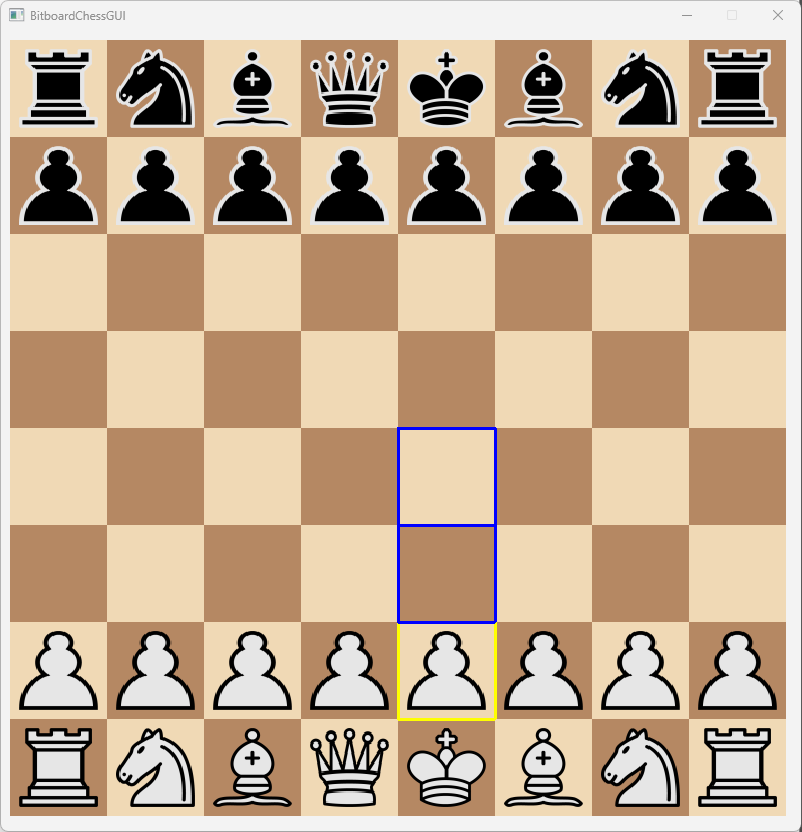
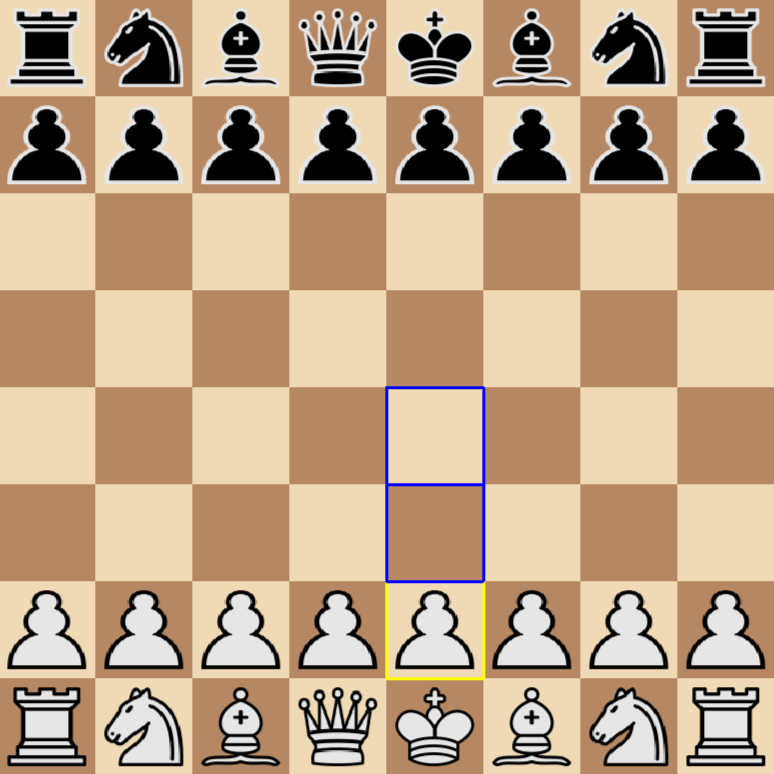
improvements

diff --git a/index.html b/index.html
@@ -7,9 +7,12 @@
     <title>
         Joshua Hinojo Portfolio
     </title>
+    <link rel="stylesheet" href="style.css">
     <link href="https://unpkg.com/aos@2.3.1/dist/aos.css" rel="stylesheet">
-    <link href="https://fonts.googleapis.com/css2?family=Montserrat:ital,wght@0,100..900;1,100..900&display=swap" rel="stylesheet">
+    <link href="https://fonts.googleapis.com/css2?family=Montserrat:ital,wght@0,100..900;1,100..900&display=swap"
+        rel="stylesheet">
     <script src="https://cdn.jsdelivr.net/npm/@tailwindcss/browser@4"></script>
+    <link rel="stylesheet" href="https://cdnjs.cloudflare.com/ajax/libs/font-awesome/7.0.1/css/all.min.css" integrity="sha512-2SwdPD6INVrV/lHTZbO2nodKhrnDdJK9/kg2XD1r9uGqPo1cUbujc+IYdlYdEErWNu69gVcYgdxlmVmzTWnetw==" crossorigin="anonymous" referrerpolicy="no-referrer" />
 </head>
 
 <style>
@@ -18,28 +21,50 @@
     }
 </style>
 
-<body id="banner" class="text-[#f5f5f5] bg-[#0f0f0f]">
-    <nav class="fixed top-0 w-full flex justify-center gap-20 z-50 bg-[#0f0f0f]/90 p-4">
-        <a href="#about" class="hover:text-blue-400">About</a>
-        <a href="#projects" class="hover:text-blue-400">Projects</a>
-        <a href="#skills" class="hover:text-blue-400">Skills</a>
-        <a href="#contact" class="hover:text-blue-400">Contact</a>
-    </nav>
-    <div class="flex flex-col md:flex-row px-20 justify-center items-center gap-10 text-center px-6 md:gap-10 md:text-left md:py-30 max-w-5xl mx-auto">
-        <img src="profile-pic.jpg" class="w-[260px] md:w-[280px] rounded-full border-5 border-blue-400">
+<body id="banner" class="text-[#f5f5f5]">
+    <div id="stars-wrapper">
+        <div id="stars-1"></div>
+        <div id="stars-2"></div>
+        <div id="stars-3"></div>
     </div>
 
-    <section id="about" class="max-w-3xl mx-auto" data-aos="fade-up">
+    <canvas id="background-canvas"></canvas>
+    <nav class="fixed top-0 w-full flex justify-center gap-20 z-50 bg-[#0f0f0f]/90 p-4">
+        <a href="#about" class="hover:text-teal-300">About</a>
+        <a href="#projects" class="hover:text-teal-300">Projects</a>
+        <a href="#skills" class="hover:text-teal-300">Skills</a>
+        <a href="#contact" class="hover:text-teal-300">Contact</a>
+    </nav>
+
+    <div id="animation-controls" class="flex flex-col items-end fixed end-5">
+        <div id="animation-controls-btns" class="flex mt-15 px-2 py-4 gap-4 w-fit border rounded-md border-teal-300">
+            <a id="slider-dialog-btn" class="hover:text-teal-300 fa-solid fa-sliders fa-lg"></a>
+            <a id="pause-play-btn" class="hover:text-teal-300 fa-solid fa-pause fa-lg click:opacity-100"></a>
+        </div>
+        <div id="slider-dialog" class="flex mt-5 gap-5 border border-teal-300 rounded-md px-2 py-1 opacity-0 duration-500">
+            <label>spaceship speed</label>
+            <input type="range">
+            <label>pixelated</label>
+            <input id="pixel-checkbox" type="checkbox" checked>
+        </div>
+    </div>
+
+    <div
+        class="flex flex-col md:flex-row px-20 justify-center items-center gap-10 text-center px-6 md:gap-10 md:text-left md:py-30 max-w-5xl mx-auto">
+        <img src="profile-pic.jpg" class="relative w-[260px] md:w-[280px] rounded-full border-5 border-teal-300">
+    </div>
+
+    <section id="about" class="max-w-3xl mx-auto md:pb-10" data-aos="fade-up">
         <h2 class="text-3xl text-center mb-4">
             About Me
         </h2>
         <div class="text-gray-400 text-center space-y-4">
             <p>
-                <strong>Hi, I'm Josh!</strong> I'm CS gradute, developer, and life-long learner currently looking for 
+                <strong>Hi, I'm Josh!</strong> I'm CS gradute, developer, and life-long learner currently looking for
                 opportunities to contribute and grow.
             </p>
             <p>
-                If I'm not learning a new framework or messing around in the Unity Engine, 
+                If I'm not learning a new framework or messing around in the Unity Engine,
                 I'm probably working an a certification of some sort!
             </p>
             <p class="font-semibold text-[#F5F5F5]">
@@ -49,42 +74,140 @@
         </div>
     </section>
 
-    <section id="projects" class="p-10" data-aos="fade-left">
-        <h2 class="text-center text-3xl mb-4 font-semibold">
+    <section id="projects" class="p-10" data-aos="fade-up">
+        <h2 class="text-center text-3xl mb-8 font-semibold">
             Projects
         </h2>
         <div id="projects-grid" class="grid grid-cols-1 md:grid-cols-2 mx-auto max-w-5xl gap-8">
 
-            <div class="bg-neutral-800 rounded-md text-center hover:scale-[1.05] duration-350">
-                <h3>LingoBuddy</h3>
+            <!--project card-->
+            <div class="group relative bg-neutral-800 overflow-hidden rounded-lg text-center hover:scale-[1.05] duration-350">
+                <img src="lingobuddy.png" class="w-full mb-4 object-cover object-top h-48">
+                <h3 class="text-2xl font-semibold mb-4">LingoBuddy</h3>
+
+                <!--overlay-->
+                <div
+                    class="absolute flex flex-col justify-between -inset-px bg-neutral-900/95 px-6 items-center text-center transition-all duration-300 opacity-0 group-hover:opacity-100">
+
+                    <div class="flex-1 flex flex-col justify-center">
+                        <p class="text-gray-300 mb-4">
+                            A language learning app with account-based progress tracking,
+                            quizzes, and vocabulary games.
+                        </p>
+                        <p class="text-sm text-teal-300">
+                            React • Next.js • Node.js • Postgres • Tailwind • Google API
+                        </p>
+                    </div>
+
+                    <div class="flex gap-4 pb-10">
+                        <a href="https://lingo-buddy-40eca1483260.herokuapp.com/home-page" target="_blank"
+                            class="w-35 py-2 rounded-md border border-teal-300 text-sm hover:bg-teal-300 hover:text-black transition">Live
+                            Demo</a>
+
+                        <a href="https://github.com/jgone99/LingoBuddy" target="_blank"
+                            class="w-35 py-2 rounded-md border border-teal-300 text-sm hover:bg-teal-300 hover:text-black transition">View
+                            on GitHub</a>
+                    </div>
+
+                </div>
             </div>
-            
-            <div class="bg-neutral-800 rounded-md text-center hover:scale-[1.05] duration-350">
-                <img src="chessgui.png" class="w-full rounded-lg mb-4">
-                <h3 class="text-2xl font-semibold">Bitboard Chess Game</h3>
-                <p class="mt-2 mb-2">
-                    Two-player chess game with bitboard implementation
-                </p>
-                <p class="mb-4">
-                    Tech Stack: C++, Qt
-                </p>
+
+            <div class="group relative bg-neutral-800 overflow-hidden rounded-lg text-center hover:scale-[1.05] duration-350">
+                <img src="chessgui.png" class="w-full mb-4 object-cover object-top h-48">
+                <h3 class="text-2xl font-semibold mb-4">Bitboard Chess Game</h3>
+
+                <!--overlay-->
+                <div
+                    class="absolute flex flex-col justify-between -inset-px bg-neutral-900/95 px-6 items-center text-center transition-all duration-300 opacity-0 group-hover:opacity-100">
+
+                    <div class="flex-1 flex flex-col justify-center">
+                        <p class="text-gray-300 mb-4">
+                            Desktop GUI-based chess game with full game logic and fast bitboard implementation ready for
+                            engine use.
+                        </p>
+                        <p class="text-sm text-teal-300">
+                            C++ • Qt
+                        </p>
+                    </div>
+
+                    <div class="flex pb-10">
+                        <a href="https://github.com/jgone99/BitboardChessGUI" target="_blank"
+                            class="px-4 py-2 rounded-md border border-teal-300 text-sm hover:bg-teal-300 hover:text-black transition">View
+                            on GitHub</a>
+                    </div>
+                </div>
             </div>
-            
-            <div class="bg-neutral-800 rounded-md text-center hover:scale-[1.05] duration-350">
-                <h3>Postgres Database CRUD Web App</h3>
+
+            <div class="group relative bg-neutral-800 overflow-hidden rounded-lg text-center hover:scale-[1.05] duration-350">
+                <img src="CRUD.png" class="w-full mb-4 object-cover object-top h-48">
+                <h3 class="text-2xl font-semibold mb-4">Postgres CRUD Web App</h3>
+
+                <!--overlay-->
+                <div
+                    class="absolute flex flex-col justify-between -inset-px bg-neutral-900/95 items-center text-center transition-all duration-300 opacity-0 group-hover:opacity-100">
+
+                    <div class="flex-1 flex flex-col justify-center">
+                        <p class="text-gray-300 mb-4">
+
+                        </p>
+                        <p class="text-sm text-teal-300">
+                            React • Node.js • Express • Postgres • Supabase • Vercel
+                        </p>
+                    </div>
+
+                    <div class="flex gap-4 pb-10">
+                        <a href="https://db-project-seven.vercel.app/" target="_blank"
+                            class="w-35 py-2 rounded-md border border-teal-300 text-sm hover:bg-teal-300 hover:text-black transition">Live
+                            Demo</a>
+
+                        <a href="https://github.com/jgone99/db-project" target="_blank"
+                            class="w-35 py-2 rounded-md border border-teal-300 text-sm hover:bg-teal-300 hover:text-black transition">View
+                            on GitHub</a>
+                    </div>
+                </div>
+
             </div>
-            
-            <div class="bg-neutral-800 rounded-md text-center hover:scale-[1.05] duration-350">
-                <h3>Portfolio Website</h3>
+
+            <div class="group relative bg-neutral-800 overflow-hidden rounded-lg text-center hover:scale-[1.05] duration-350">
+                <img src="portfolio.png" class="w-full mb-4 object-cover object-top h-48">
+                <h3 class="text-2xl font-semibold mb-4">Portfolio Website</h3>
+
+                <!--overlay-->
+                <div
+                    class="absolute flex flex-col justify-between -inset-px bg-neutral-900/95 items-center text-center transition-all duration-300 opacity-0 group-hover:opacity-100">
+
+                    <div class="flex-1 flex flex-col justify-center">
+                        <p class="text-gray-300 mb-4">
+                            A pocket universe where I like to keep my stuff
+                        </p>
+                        <p class="text-sm text-teal-300">
+                            HTML • CSS • JavaScript • Tailwind • AOS.js
+                        </p>
+                    </div>
+
+                    <div class="flex gap-4 pb-10">
+                        <a href="https://github.com/jgone99/portfolio" target="_blank"
+                            class="w-35 py-2 rounded-md border border-teal-300 text-sm hover:bg-teal-300 hover:text-black transition">View
+                            on GitHub</a>
+                    </div>
+                </div>
             </div>
         </div>
     </section>
 
+    <section id="skils">
+
+    </section>
+
+    <section id="contact">
+
+    </section>
+
+    <script src="space-background.js"></script>
     <script src="https://unpkg.com/aos@2.3.1/dist/aos.js"></script>
     <script>
         AOS.init();
     </script>
 </body>
-
 
 </html>

diff --git a/style.css b/style.css
@@ -1,6 +1,69 @@
-
-body {
+html {
     font-family: Arial;
     padding: 0;
     margin: 0;
+    position: absolute;
+    width: 100%;
+    height: 100%;
+    background: radial-gradient(ellipse at bottom, #1b2735 0%, #090a0f 100%);
+    background-attachment: fixed;
+}
+
+body {
+    z-index: 999;
+}
+
+#stars-wrapper {
+    position: fixed;
+    background: transparent;
+    width: 100%;
+    height: 100%;
+    transform: translate(0vw, 0vh);
+    transition: transform linear 1.5s;
+    z-index: -1;
+}
+
+#stars-1 {
+    position: absolute;
+    top: 50%;
+    left: 50%;
+    width: 1px;
+    height: 1px;
+    background: white;
+    transform: translate(-50%, -50%);
+    transition: transform 0.15s ease-out;
+    pointer-events: none;
+}
+
+#stars-2 {
+    position: absolute;
+    top: 50%;
+    left: 50%;
+    width: 2px;
+    height: 2px;
+    background: white;
+    transform: translate(-50%, -50%);
+    transition: transform 0.15s ease-out;
+    pointer-events: none;
+}
+
+#stars-3 {
+    position: absolute;
+    top: 50%;
+    left: 50%;
+    width: 3px;
+    height: 3px;
+    background: white;
+    transform: translate(-50%, -50%);
+    transition: transform 0.15s ease-out;
+    pointer-events: none;
+}
+
+#background-canvas {
+    left: 0;
+    position: fixed;
+    z-index: 1;
+    image-rendering: pixelated;
+    pointer-events: none;
+    z-index: 0;
 }

diff --git a/space-background.js b/space-background.js
@@ -20,7 +20,7 @@ const cursor = {
     y: pseudo_canvas_height / 2,
 }
 
-const spaceship_sprite_url = 'spaceship1.png'
+const spaceship_sprite_url = 'spaceship.png'
 let spaceship_img = null
 
 const planet_texture_urls = ['planet0.png', 'planet1.png']
@@ -282,8 +282,8 @@ function updatePlanets(dt) {
 }
 
 function shiftBackground() {
-    const xRatio = cursor.x / WINDOW_W - 0.5
-    const yRatio = cursor.y / WINDOW_H - 0.5
+    const xRatio = cursor.x / pseudo_canvas_width - 0.5
+    const yRatio = cursor.y / pseudo_canvas_height - 0.5
     const moveX = -xRatio * 30
     const moveY = -yRatio * 30
 
